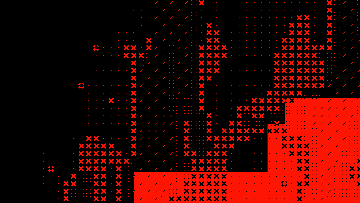
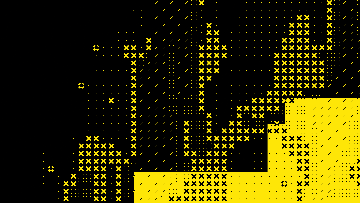
💄 Feat: Improve the image style

diff --git a/apps/front/app/[locale]/(app)/race/page.tsx b/apps/front/app/[locale]/(app)/race/page.tsx
@@ -1,10 +1,12 @@
 "use client"
 
 import { useTranslations } from "next-intl"
+import Image from "next/image"
 import { useRouter } from "next/navigation"
 import { useState } from "react"
 import { Button } from "@/components/ui/button"
 import { Input } from "@/components/ui/input"
+import { ASSET_URLS } from "@/constants/mapping"
 import { PAGES } from "@/constants/pages"
 import { useCreateRaceMutation, useGetRaceByCodeQuery, useJoinRaceMutation } from "@/redux/api/race"
 import { selectUser } from "@/redux/session/session.selectors"
@@ -47,10 +49,11 @@ const Page = () => {
   }
 
   return (
-    <main className="h-full-height flex flex-col items-center justify-center gap-12 p-6">
-      <h1 className="text-4xl font-bold">Race Mode</h1>
+    <main className="h-full-height flex flex-col items-center justify-center gap-12 p-6 bg-repeat bg-center bg-size-[25%]" style={{ backgroundImage: `url(${ASSET_URLS.CREATOR_BACKGROUND})` }}>
+      <Image src={ASSET_URLS.BOTTOM_GB} alt="Gradient br" width={360} height={203} className="absolute bottom-0 right-0 z-0" />
+      <h1 className="text-4xl font-bold bg-background px-4 py-2">Race Mode</h1>
 
-      <div className="grid grid-cols-1 md:grid-cols-2 gap-8 w-full max-w-2xl">
+      <div className="grid grid-cols-1 md:grid-cols-2 gap-8 w-full max-w-2xl bg-background px-4 py-2">
         {/* Create */}
         <section className="space-y-4 p-6 rounded-xl border">
           <h2 className="text-xl font-semibold">{t("createRace")}</h2>

diff --git a/apps/front/components/death-run/death-run-waiting.tsx b/apps/front/components/death-run/death-run-waiting.tsx
@@ -3,8 +3,10 @@
 import { type DeathRunDocWithId } from "@repo/schemas"
 import { Heart, Users } from "lucide-react"
 import { useTranslations } from "next-intl"
+import Image from "next/image"
 import { Button } from "@/components/ui/button"
 import { UserAvatar } from "@/components/ui/user-avatar"
+import { ASSET_URLS } from "@/constants/mapping"
 import { usePrepareAndStartDeathRunMutation } from "@/redux/api/death-run"
 import { selectUserId } from "@/redux/session/session.selectors"
 import { useAppSelector } from "@/redux/store"
@@ -17,7 +19,8 @@ const DeathRunWaiting = ({ deathRun }: { deathRun: DeathRunDocWithId }) => {
   const isHost = deathRun.hostId === uid
 
   return (
-    <div className="h-full-height flex flex-col items-center justify-center gap-8 p-6">
+    <div className="relative h-full-height flex flex-col items-center justify-center gap-8 p-6 bg-repeat bg-center bg-size-[25%]" style={{ backgroundImage: `url(${ASSET_URLS.CREATOR_BACKGROUND})` }}>
+      <Image src={ASSET_URLS.BOTTOM_GB} alt="Gradient br" width={360} height={203} className="absolute bottom-0 right-0 z-0" />
       <div className="text-center space-y-2">
         <h1 className="text-3xl font-bold">{t("lobbyTitle")}</h1>
         <p className="text-muted-foreground">

diff --git a/apps/front/components/race/race-waiting.tsx b/apps/front/components/race/race-waiting.tsx
@@ -2,8 +2,10 @@
 
 import { type RaceDocWithId } from "@repo/schemas"
 import { Users } from "lucide-react"
+import Image from "next/image"
 import { Button } from "@/components/ui/button"
 import { UserAvatar } from "@/components/ui/user-avatar"
+import { ASSET_URLS } from "@/constants/mapping"
 import { usePrepareAndStartRaceMutation } from "@/redux/api/race"
 import { selectUserId } from "@/redux/session/session.selectors"
 import { useAppSelector } from "@/redux/store"
@@ -14,7 +16,8 @@ const RaceWaiting = ({ race }: { race: RaceDocWithId }) => {
   const isHost = race.hostId === uid
 
   return (
-    <div className="h-full-height flex flex-col items-center justify-center gap-8 p-6">
+    <div className="relative h-full-height flex flex-col items-center justify-center gap-8 p-6 bg-repeat bg-center bg-size-[25%]" style={{ backgroundImage: `url(${ASSET_URLS.CREATOR_BACKGROUND})` }}>
+      <Image src={ASSET_URLS.BOTTOM_GB} alt="Gradient br" width={360} height={203} className="absolute bottom-0 right-0 z-0" />
       <div className="text-center space-y-2">
         <h1 className="text-3xl font-bold">Race Lobby</h1>
         <p className="text-muted-foreground">

diff --git a/apps/front/app/globals.css b/apps/front/app/globals.css
@@ -42,6 +42,8 @@
   --color-card-foreground: var(--card-foreground);
   --color-card: var(--card);
   --color-marathon-pink: var(--marathon-pink);
+  --color-marathon-orange: var(--marathon-orange);
+  --color-marathon-orange-foreground: var(--marathon-orange-foreground);
   --color-marathon-green: var(--marathon-green);
   --color-marathon-green-foreground: var(--marathon-green-foreground);
   --color-marathon-yellow: var(--marathon-yellow);
@@ -245,6 +247,8 @@
   --primary: oklch(0.6723 0.239166 18.94);
   --primary-foreground: oklch(0 0 0);
   --marathon-pink:oklch(0.6723 0.239166 18.94);
+  --marathon-orange:oklch(0.6416 0.2133 32.82);
+  --marathon-orange-foreground:oklch(47.388% 0.15893 32.816);
   --marathon-yellow: oklch(0.9262 0.1979 115.19);
   --marathon-yellow-foreground: oklch(43.102% 0.08189 114.777);
   --marathon-green: oklch(0.8537 0.217249 153.4818);

diff --git a/apps/front/components/daily-challenge/node.tsx b/apps/front/components/daily-challenge/node.tsx
@@ -2,11 +2,11 @@
 
 import { type ConstantValues, dateToString } from "@repo/common"
 import { cva } from "class-variance-authority"
-import { Link } from "@/i18n/routing"
 import { memo, useMemo } from "react"
 import { DailyChallengeContent, DailyChallengeLabel } from "@/components/daily-challenge/node-icons"
 import { DAILY_CHALLENGES_VARIANTS, SIDE } from "@/constants/daily-challenges"
 import { PAGES } from "@/constants/pages"
+import { Link } from "@/i18n/routing"
 import { useGetDailyChallengeEntityByDateQuery, useGetMyDailyChallengeResultByDateQuery } from "@/redux/api/daily-challenge"
 import { selectUserId } from "@/redux/session/session.selectors"
 import { useAppSelector } from "@/redux/store"
@@ -18,7 +18,7 @@ export const nodeVariants = cva(
   {
     variants: {
       variant: {
-        [DAILY_CHALLENGES_VARIANTS.FUTURE]: "bg-primary text-primary-foreground",
+        [DAILY_CHALLENGES_VARIANTS.FUTURE]: "bg-marathon-orange text-marathon-orange-foreground",
         [DAILY_CHALLENGES_VARIANTS.TODAY]: "bg-marathon-pink text-foreground",
         [DAILY_CHALLENGES_VARIANTS.COMPLETED_TODAY]:
           "bg-marathon-green text-marathon-green-foreground",